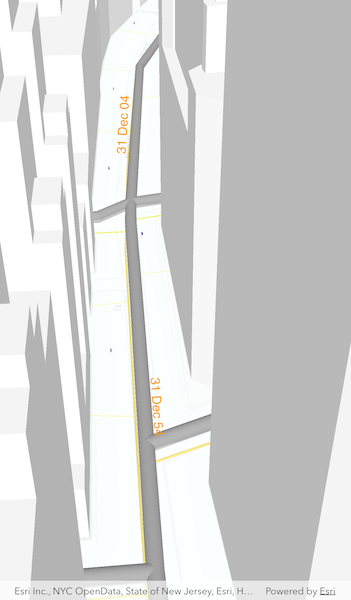
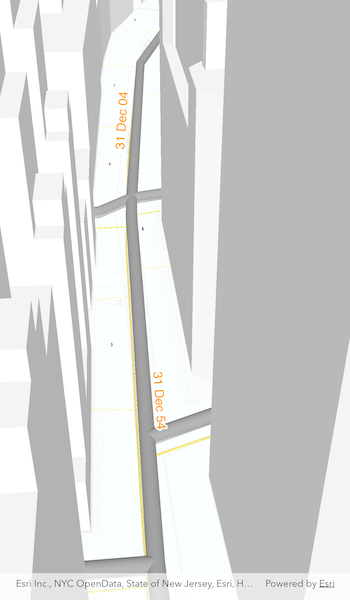
Add halo to label

diff --git a/lib/samples/show_labels_on_layer_in_3d/show_labels_on_layer_in_3d.dart b/lib/samples/show_labels_on_layer_in_3d/show_labels_on_layer_in_3d.dart
@@ -74,7 +74,9 @@ class _ShowLabelsOnLayerIn3dState extends State<ShowLabelsOnLayerIn3d>
     gasMainLayer.labelsEnabled = true;
 
     // Create a text symbol for the label definition.
-    final textSymbol = TextSymbol(color: Colors.orange, size: 16);
+    final textSymbol = TextSymbol(color: Colors.orange, size: 16)
+      ..haloColor = Colors.white
+      ..haloWidth = 2.0;
 
     // Create a label definition from an arcade label expression and the text symbol.
     final labelDefinition = LabelDefinition(
